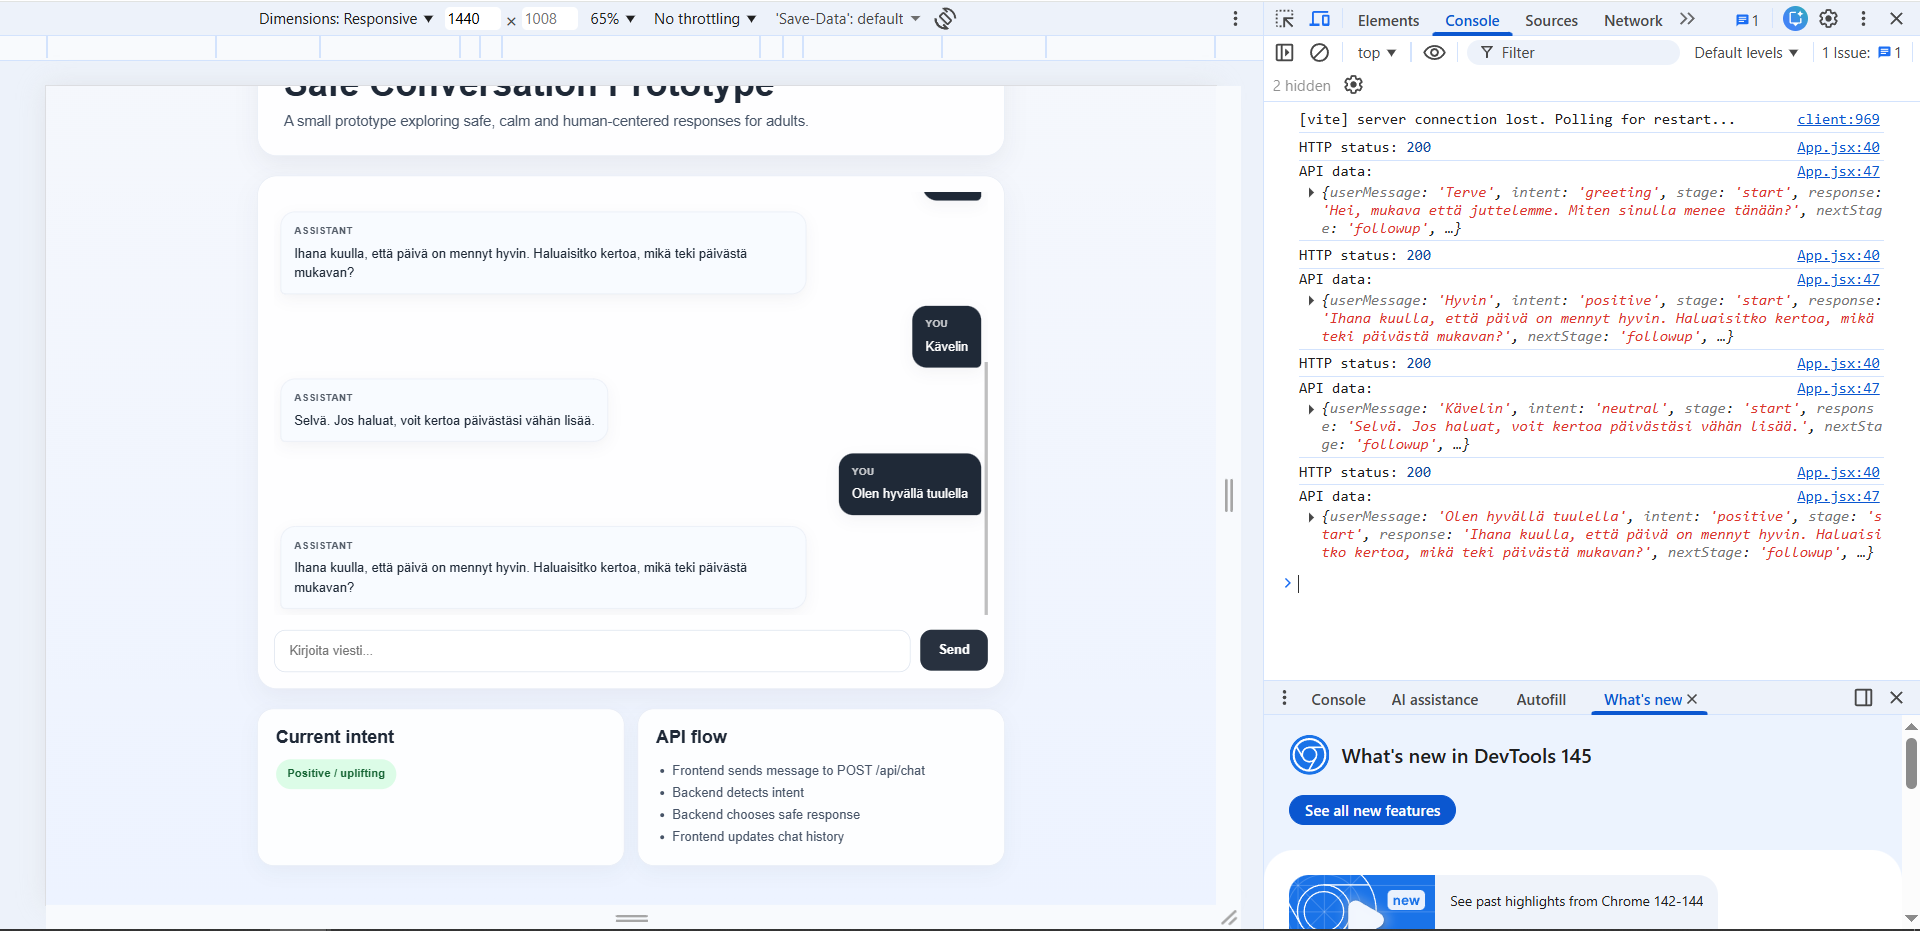
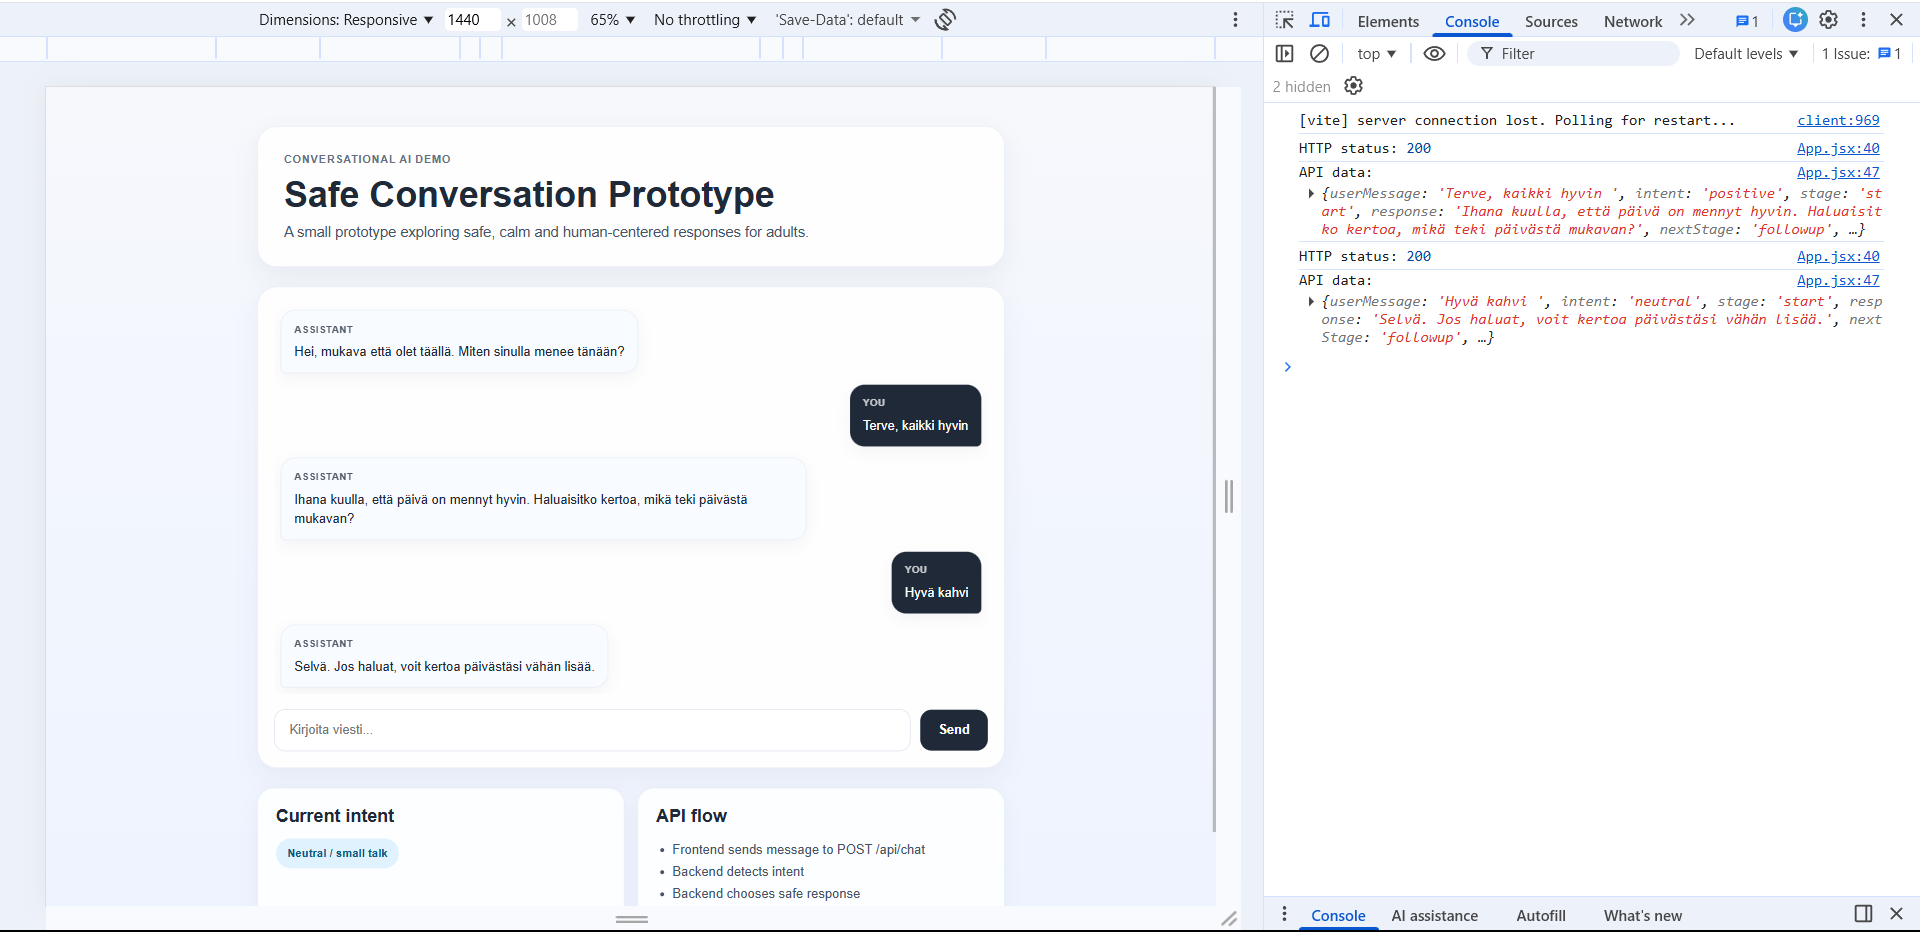
Update README screenshots

diff --git a/README.md b/README.md
@@ -4,9 +4,9 @@ A small full-stack conversational AI prototype exploring calm, safe and human-ce
 
 ## Screenshot
 
-![Safe Conversation Prototype screenshot](./screenshots/safe-conversation-prototype.png)
+![Safe Conversation Prototype screenshot](./screenshots/positive-dialog.png)
+![Safe Conversation Prototype screenshot](./screenshots/low-mood-dialog.png)
 ![Safe Conversation Prototype screenshot](./screenshots/safe-conversation-prototype1.png)
-
 
 ## Purpose
 
